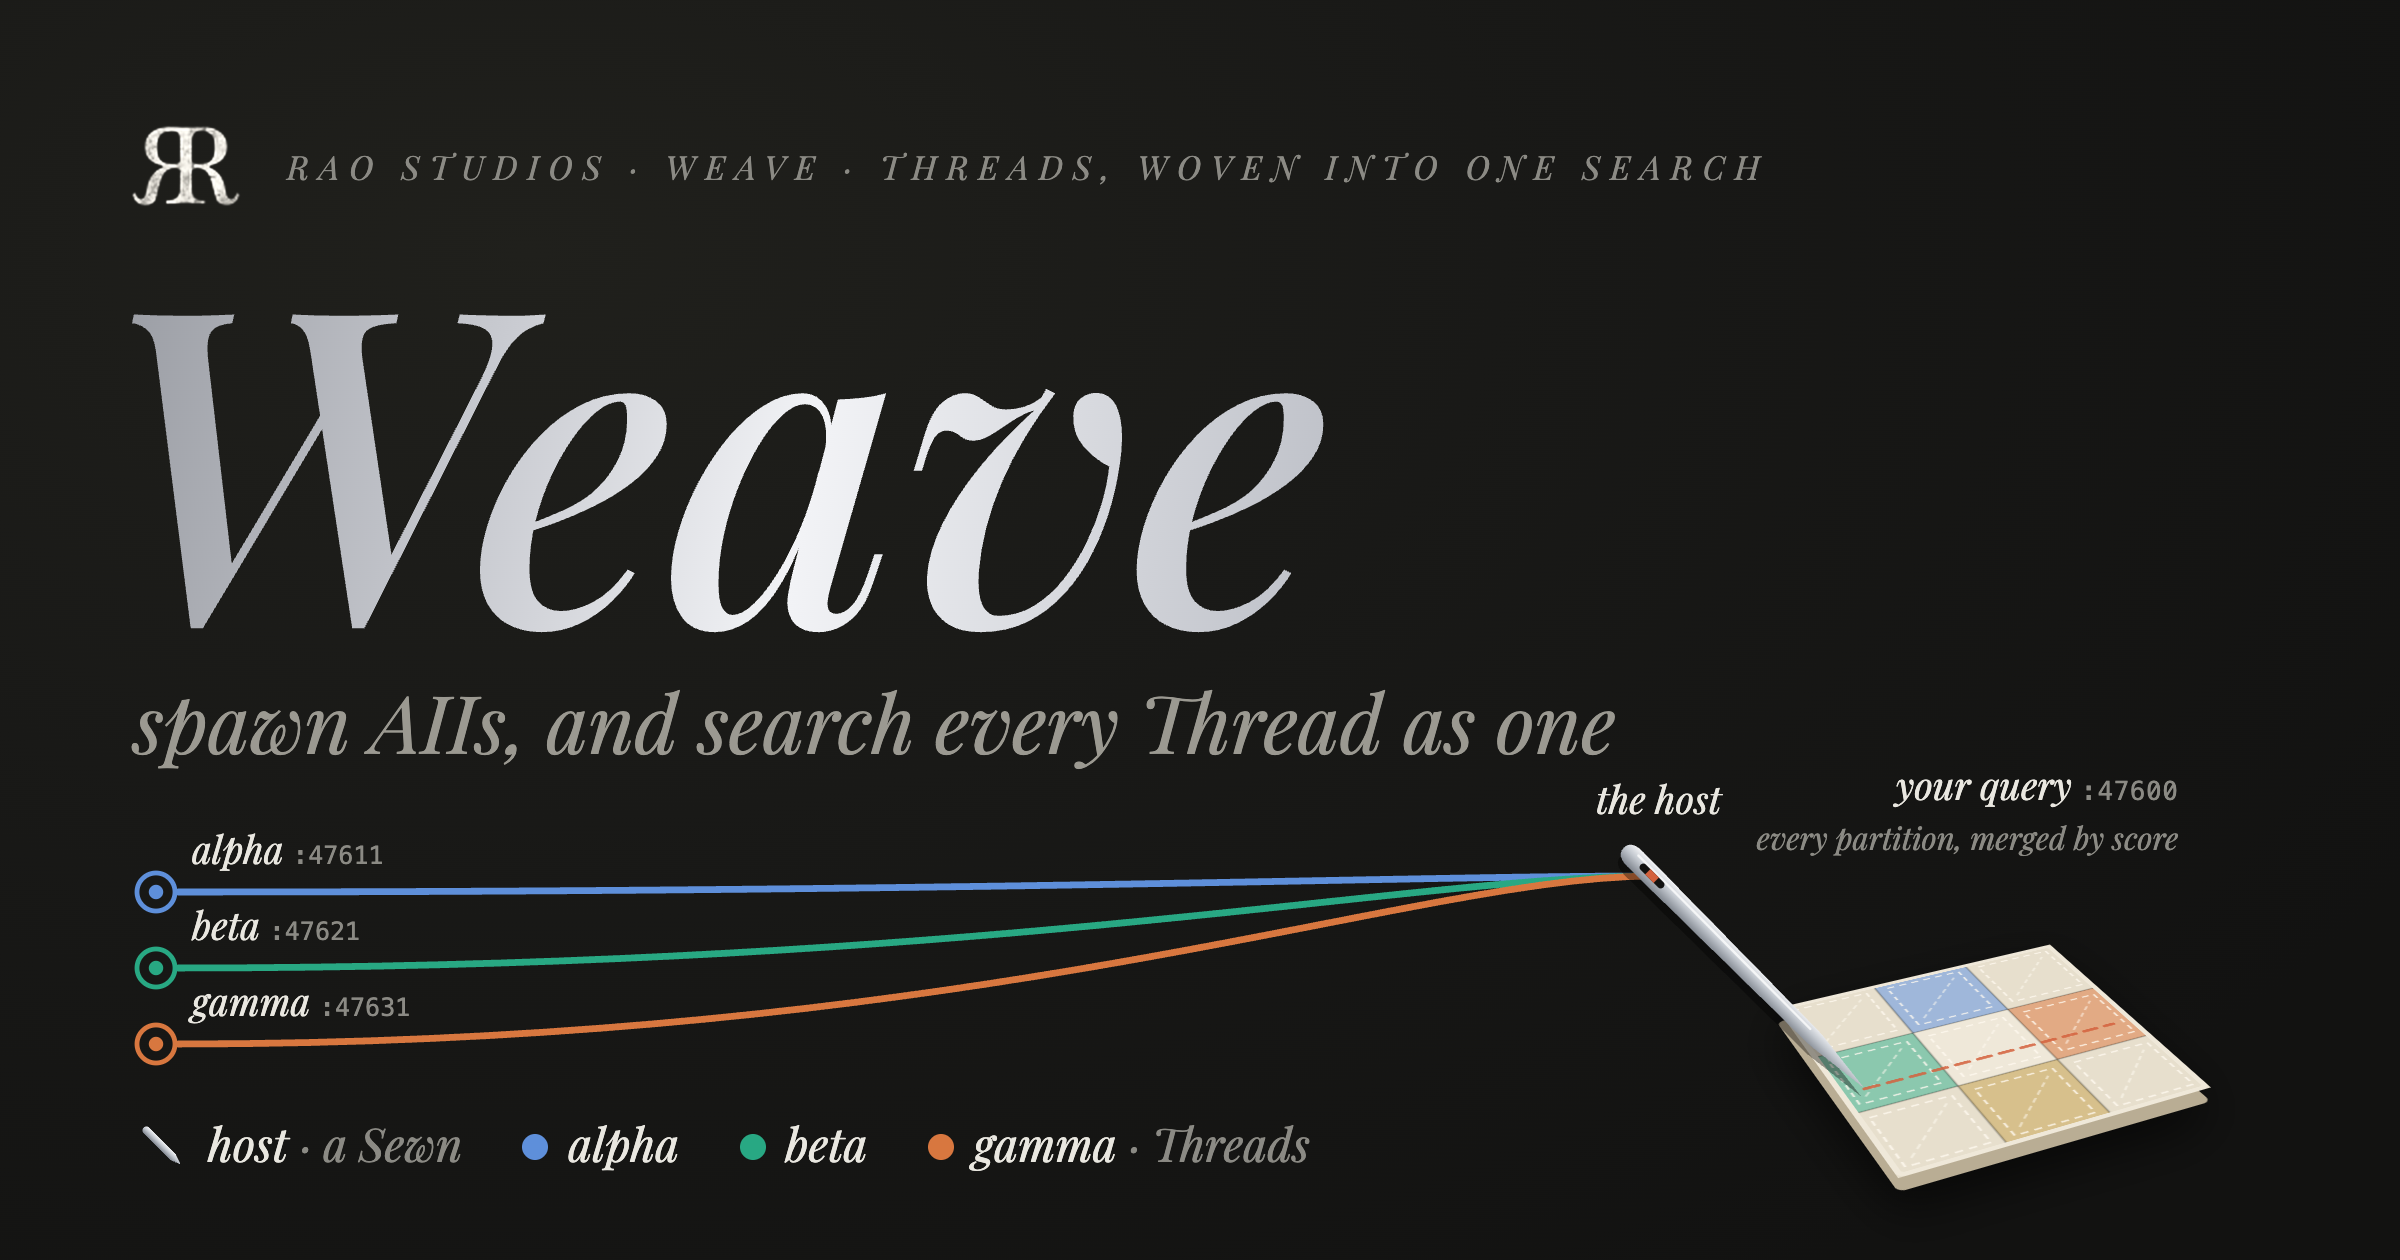
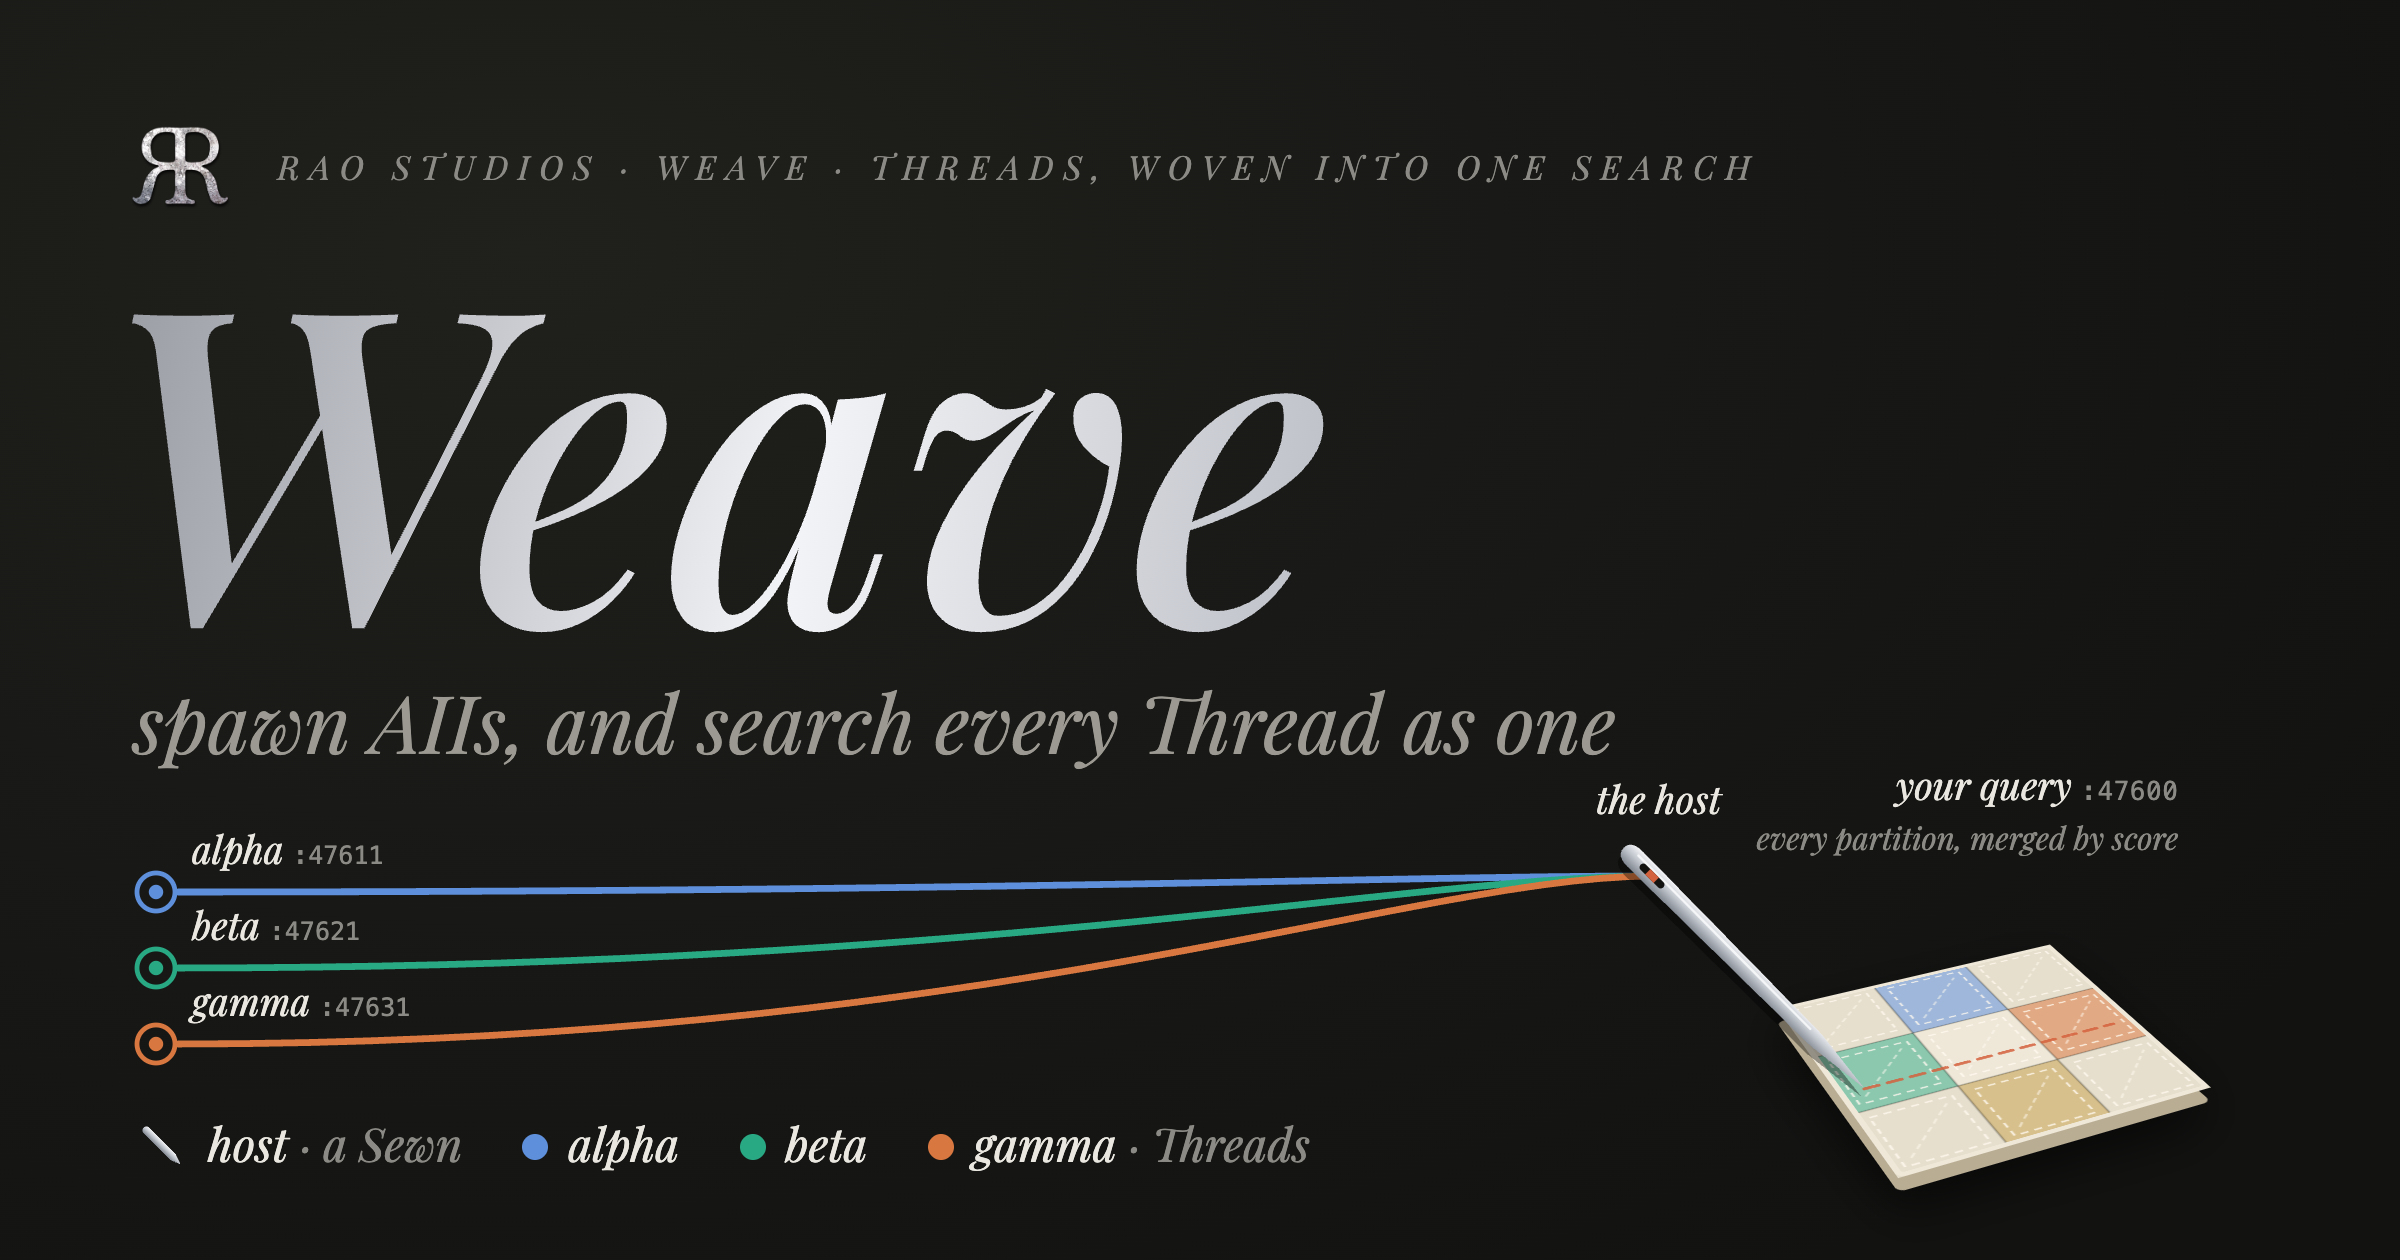
README assets: rao.nyc's symmetric mark on every plate
The plates' mark is now rao.nyc's public/rr-mark.png, byte for byte (986 x 802 with
its drop shadow), in place of the 216 x 180 mark of 2026-11-08. Its glyph is narrower
(ink 919 x 747 at alpha >= 128, against 160 x 118), so each plate keeps the ink's
height and its top-left, at Braid's numbers: 39.3 px from x 66 on the hero (51.9 wide
at 64.6, 62.6), 35 px from 70, 70 on hosting and datasets (46.2 wide at 68.8, 69.3).
Each caption moves left by what the ink narrowed (143.5 to 138.8, 150 to 145.8), so
the gap to the mark stays.

Checked 2026-11-12: all three plates re-rendered and diffed against their committed
PNGs at 2x. The sizes are unchanged; the changed pixels sit in the header band (the
mark and the caption). Below it, at most 1 level on hosting and datasets. On the hero,
61 single pixels on the title's glyph edges and the legend dots' rims differ by up to
53, in every one of thirteen runs: anti-aliasing, nothing moved.

Changed region(s): [[0.2812, 0.1238, 0.75, 0.1548], [0.125, 0.1238, 0.25, 0.1548], [0.0625, 0.0929, 0.0938, 0.1857]]

diff --git a/Docs/README_Assets/src/plates.py b/Docs/README_Assets/src/plates.py
@@ -158,8 +158,8 @@ def hero(browser):
 html, body {{ margin: 0; width: 1200px; height: 630px; overflow: hidden; }}
 body {{ position: relative; font-family: "Playfair", Georgia, serif; font-style: italic; font-variant-numeric: lining-nums;
        background: radial-gradient(ellipse 90% 100% at 22% 20%, #20201c 0%, #191917 45%, #121211 100%); }}
-.mark {{ position: absolute; left: 57.5px; top: 52px; width: 72px; }}
-.caption {{ position: absolute; left: 143.5px; top: 72px; letter-spacing: .3em; font-size: 16.5px; color: #8b8a84; }}
+.mark {{ position: absolute; left: 64.6px; top: 62.6px; width: 51.9px; }}
+.caption {{ position: absolute; left: 138.8px; top: 72px; letter-spacing: .3em; font-size: 16.5px; color: #8b8a84; }}
 .title {{ position: absolute; left: 34px; top: 112px; padding-left: 40px; font-size: 220px; line-height: 1; font-weight: 500; letter-spacing: -.005em;
          background: linear-gradient(100deg, #8d9097 0%, #c8cad0 35%, #f2f3f6 58%, #b6b9c1 100%);
          -webkit-background-clip: text; background-clip: text; color: transparent; padding-right: 30px; }}
@@ -218,8 +218,8 @@ PLATE_CSS = f"""
 html, body {{{{ margin: 0; width: {W}px; overflow: hidden; }}}}
 body {{{{ position: relative; font-family: "Playfair", Georgia, serif; font-style: italic; color: #a29f97; font-variant-numeric: lining-nums;
        background: radial-gradient(ellipse 90% 100% at 22% 20%, #20201c 0%, #191917 45%, #121211 100%); }}}}
-.mark {{{{ position: absolute; left: 62.5px; top: 60px; width: 64px; }}}}
-.caption {{{{ position: absolute; left: 150px; top: 78px; letter-spacing: .3em; font-size: 15px; color: #8b8a84; }}}}
+.mark {{{{ position: absolute; left: 68.8px; top: 69.3px; width: 46.2px; }}}}
+.caption {{{{ position: absolute; left: 145.8px; top: 78px; letter-spacing: .3em; font-size: 15px; color: #8b8a84; }}}}
 .title {{{{ position: absolute; left: 30px; padding-left: 40px; top: 150px; font-size: 104px; line-height: 1; font-weight: 500; padding-right: 30px; padding-bottom: 20px;
          background: linear-gradient(100deg, #8d9097 0%, #c8cad0 35%, #f2f3f6 58%, #b6b9c1 100%);
          -webkit-background-clip: text; background-clip: text; color: transparent; white-space: nowrap; }}}}
